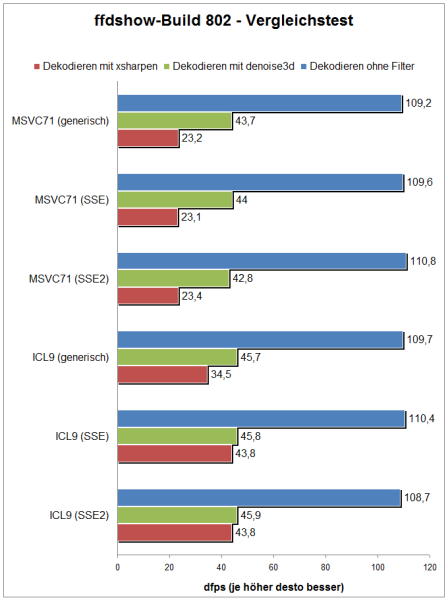
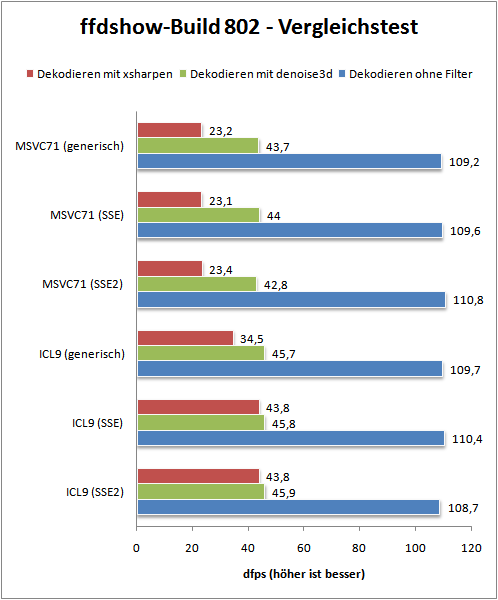
Hopefully last changes to benchmark.png. Added 2nd Excel file for future translations.

diff --git a/htmlhelp/html/de/faq.htm b/htmlhelp/html/de/faq.htm
@@ -83,7 +83,7 @@
 
   <p>
     <span class="normal">Das folgende Diagramm stellt die m&ouml;glichen Zuw&auml;chse in der Dekodiergeschwindigkeit, wenn optimierte Builds <strong>und</strong> Filter verwendet werden, dar:<br /><br />
-      <img src="images/benchmark.png" width="448" height="600" title="ffdshow-Build-802-Test" alt="ffdshow-Build-802-Test" /><br />
+      <img src="images/benchmark.png" width="498" height="600" title="ffdshow-Build-802-Test" alt="ffdshow-Build-802-Test" /><br />
     </span>
     <span class="small">
       Testsystem: Pentium 4 2.8GHz (Northwood), Windows XP SP2, Null Renderer verwendet<br />

diff --git a/htmlhelp/html/en/faq.htm b/htmlhelp/html/en/faq.htm
@@ -83,7 +83,7 @@
   
   <p>
     <span class="normal">The following chart illustrates the possible increase in decoding performance when using optimized builds <strong>and</strong> filters:<br /><br />
-      <img src="images/benchmark.png" width="448" height="600" title="ffdshow build 802 benchmark" alt="ffdshow build 802 benchmark" /><br />
+      <img src="images/benchmark.png" width="498" height="600" title="ffdshow build 802 benchmark" alt="ffdshow build 802 benchmark" /><br />
     </span>
     <span class="small">
       Test setup: Pentium 4 2.8GHz (Northwood), Windows XP SP2, using null renderer<br />
